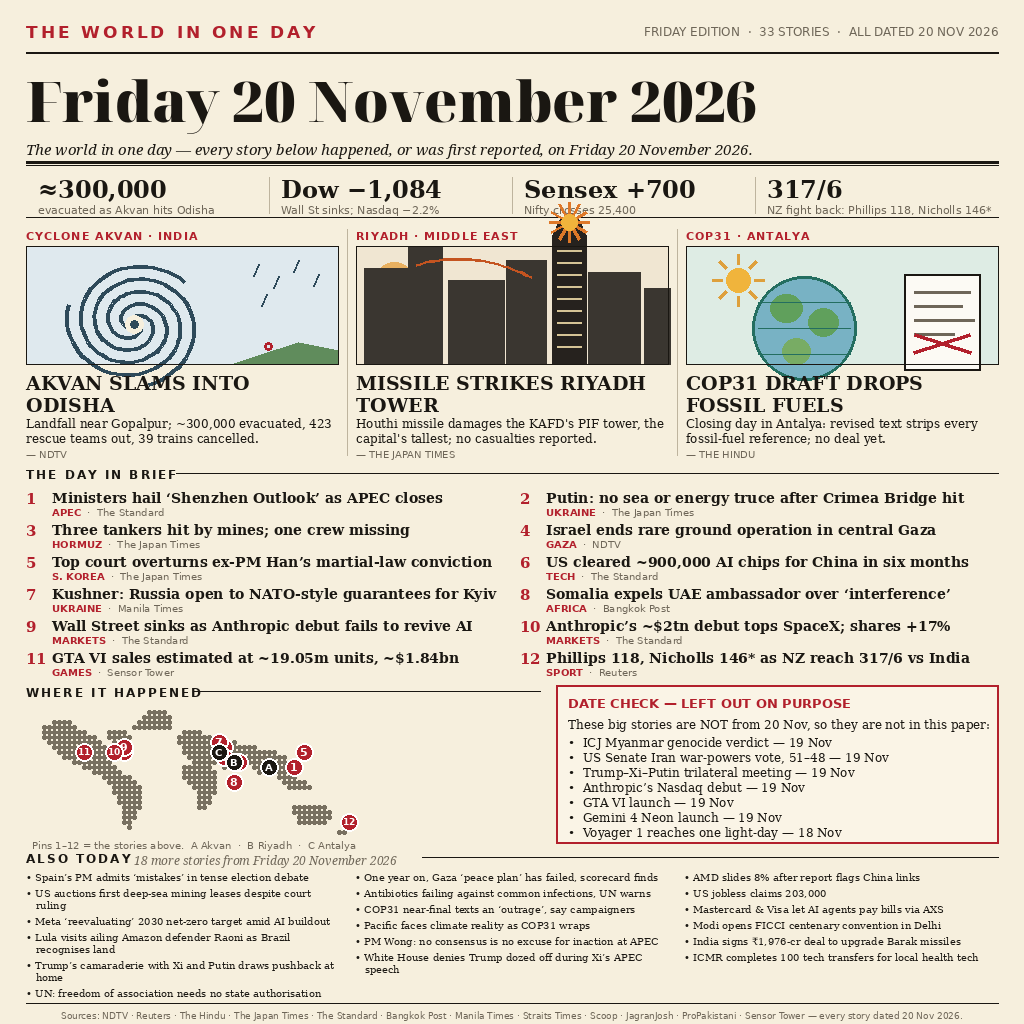
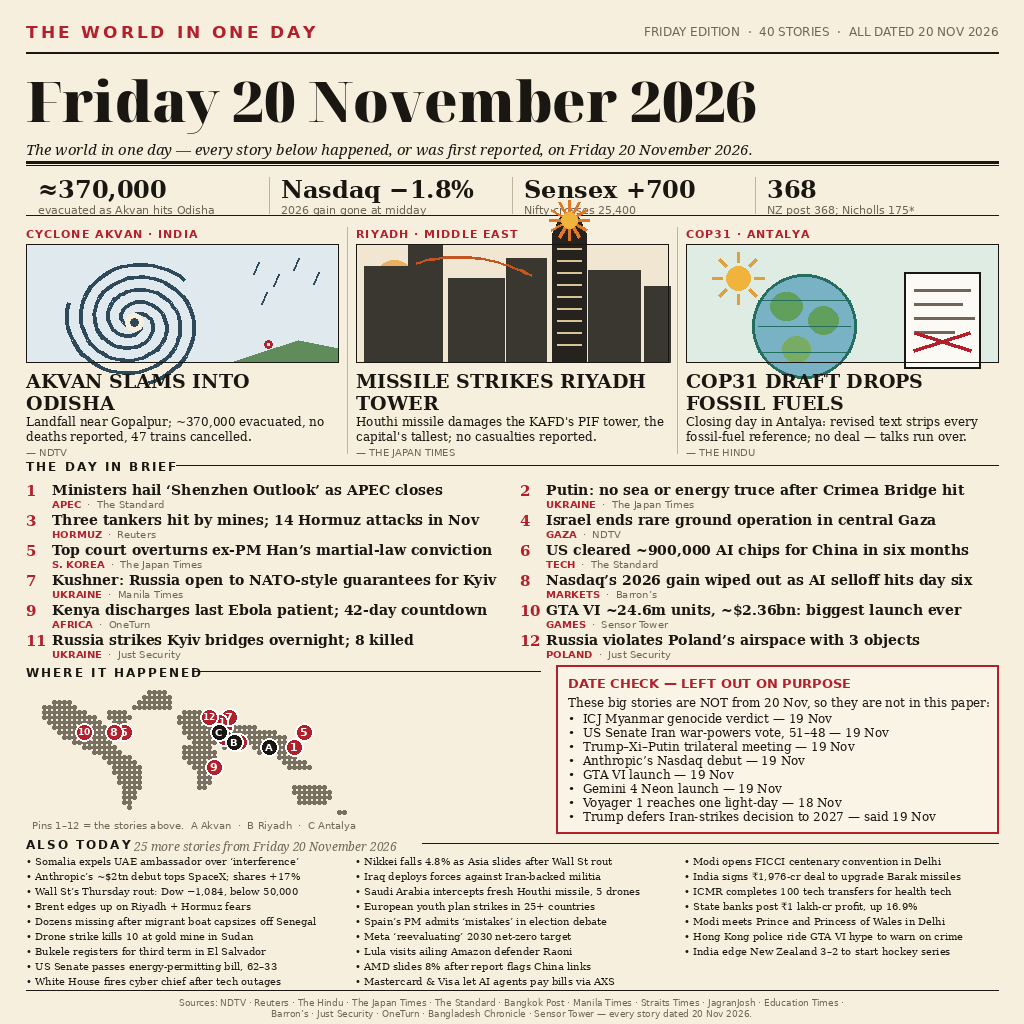
news-image-20261120 FINAL: 40 verified stories — Akvan landfall complete, COP31 no deal, Nasdaq's 2026 gain gone, GTA VI $2.36bn, Kyiv + Poland

Changed region(s): [[0.0312, 0.1562, 0.9688, 1.0]]

diff --git a/main.ts b/main.ts
@@ -1,8 +1,10 @@
 // news-image-20261120 — "Sum up 20 November's world news in one image".
 // The entry is the image beside this file: entry.png, a 1024x1024 newspaper
-// front page drawn by draw.py (Python/Pillow, no network) from the 33 verified
-// 20 Nov 2026 headlines in the research file. This program only copies it to
-// the grader's output directory, so both runs write byte-identical output.
+// front page drawn by draw.py (Python/Pillow, no network) from the 40 verified
+// 20 Nov 2026 headlines in the research file (final version: landfall complete,
+// COP31 no deal, Nasdaq's 2026 gain gone, GTA VI $2.36bn estimate, Kyiv + Poland).
+// This program only copies it to the grader's output directory, so both runs
+// write byte-identical output.
 //
 // Outside the grader's container, MAKEFUN_OUTPUT_DIR stands in for /output:
 //   mkdir -p out && MAKEFUN_OUTPUT_DIR=out node main.ts

diff --git a/draw.py b/draw.py
@@ -108,7 +108,7 @@ LEADS = [
     {
         "tag": "CYCLONE AKVAN · INDIA",
         "headline": "AKVAN SLAMS INTO ODISHA",
-        "standfirst": "Landfall near Gopalpur; ~300,000 evacuated, 423 rescue teams out, 39 trains cancelled.",
+        "standfirst": "Landfall near Gopalpur; ~370,000 evacuated, no deaths reported, 47 trains cancelled.",
         "source": "NDTV",
         "art": "cyclone",
     },
@@ -122,7 +122,7 @@ LEADS = [
     {
         "tag": "COP31 · ANTALYA",
         "headline": "COP31 DRAFT DROPS FOSSIL FUELS",
-        "standfirst": "Closing day in Antalya: revised text strips every fossil-fuel reference; no deal yet.",
+        "standfirst": "Closing day in Antalya: revised text strips every fossil-fuel reference; no deal — talks run over.",
         "source": "THE HINDU",
         "art": "globe",
     },
@@ -131,53 +131,54 @@ LEADS = [
 GRID = [
     ("APEC", "Ministers hail \u2018Shenzhen Outlook\u2019 as APEC closes", "The Standard"),
     ("UKRAINE", "Putin: no sea or energy truce after Crimea Bridge hit", "The Japan Times"),
-    ("HORMUZ", "Three tankers hit by mines; one crew missing", "The Japan Times"),
+    ("HORMUZ", "Three tankers hit by mines; 14 Hormuz attacks in Nov", "Reuters"),
     ("GAZA", "Israel ends rare ground operation in central Gaza", "NDTV"),
     ("S. KOREA", "Top court overturns ex-PM Han\u2019s martial-law conviction", "The Japan Times"),
     ("TECH", "US cleared ~900,000 AI chips for China in six months", "The Standard"),
     ("UKRAINE", "Kushner: Russia open to NATO-style guarantees for Kyiv", "Manila Times"),
-    ("AFRICA", "Somalia expels UAE ambassador over \u2018interference\u2019", "Bangkok Post"),
-    ("MARKETS", "Wall Street sinks as Anthropic debut fails to revive AI", "The Standard"),
-    ("MARKETS", "Anthropic\u2019s ~$2tn debut tops SpaceX; shares +17%", "The Standard"),
-    ("GAMES", "GTA VI sales estimated at ~19.05m units, ~$1.84bn", "Sensor Tower"),
-    ("SPORT", "Phillips 118, Nicholls 146* as NZ reach 317/6 vs India", "Reuters"),
+    ("MARKETS", "Nasdaq\u2019s 2026 gain wiped out as AI selloff hits day six", "Barron\u2019s"),
+    ("AFRICA", "Kenya discharges last Ebola patient; 42-day countdown", "OneTurn"),
+    ("GAMES", "GTA VI ~24.6m units, ~$2.36bn: biggest launch ever", "Sensor Tower"),
+    ("UKRAINE", "Russia strikes Kyiv bridges overnight; 8 killed", "Just Security"),
+    ("POLAND", "Russia violates Poland\u2019s airspace with 3 objects", "Just Security"),
 ]
 
-# Numbered pins on the map: (grid story no., lon, lat). 11/12 sit near their region;
-# 10 (Nasdaq) is nudged off 9 (Wall St) so the two pins do not overlap.
+# Numbered pins on the map: (grid story no., lon, lat). 8 (Nasdaq) is nudged
+# off 6 (Washington) and 9 (Kenya) is nudged to the nearest land dot, so the
+# pins do not overlap on this coarse map.
 PINS = [
     (1, 114, 22), (2, 34, 45), (3, 56, 26), (4, 34, 31), (5, 127, 37),
-    (6, -77, 39), (7, 30, 50), (8, 45, 2), (9, -74, 41), (10, -88, 34),
-    (11, -122, 37), (12, 175, -41),
+    (6, -77, 39), (7, 40, 56), (8, -88, 34), (9, 26, 0), (10, -122, 37),
+    (11, 30, 50), (12, 19, 52),
 ]
 # Lead markers on the map: (letter, lon, lat) — A Akvan, B Riyadh, C Antalya.
 LEAD_PINS = [("A", 85, 20), ("B", 47, 25), ("C", 31, 37)]
 
 BRIEFS = [
-    ("Spain\u2019s PM admits \u2018mistakes\u2019 in tense election debate", "Manila Times"),
-    ("US auctions first deep-sea mining leases despite court ruling", "Bangkok Post"),
-    ("Meta \u2018reevaluating\u2019 2030 net-zero target amid AI buildout", "Bangkok Post"),
-    ("Lula visits ailing Amazon defender Raoni as Brazil recognises land", "Bangkok Post"),
-    ("Trump\u2019s camaraderie with Xi and Putin draws pushback at home", "Japan Times"),
-    ("UN: freedom of association needs no state authorisation", "Scoop"),
-    ("One year on, Gaza \u2018peace plan\u2019 has failed, scorecard finds", "Save the Children"),
-    ("Antibiotics failing against common infections, UN warns", "UN News"),
-    ("COP31 near-final texts an \u2018outrage\u2019, say campaigners", "350.org"),
-    ("Pacific faces climate reality as COP31 wraps", "Science Media Centre"),
-    ("PM Wong: no consensus is no excuse for inaction at APEC", "Straits Times"),
-    ("White House denies Trump dozed off during Xi\u2019s APEC speech", "The Standard"),
+    ("Somalia expels UAE ambassador over \u2018interference\u2019", "Bangkok Post"),
+    ("Anthropic\u2019s ~$2tn debut tops SpaceX; shares +17%", "The Standard"),
+    ("Wall St\u2019s Thursday rout: Dow \u22121,084, below 50,000", "The Standard"),
+    ("Brent edges up on Riyadh + Hormuz fears", "Reuters"),
+    ("Dozens missing after migrant boat capsizes off Senegal", "OneTurn"),
+    ("Drone strike kills 10 at gold mine in Sudan", "OneTurn"),
+    ("Bukele registers for third term in El Salvador", "OneTurn"),
+    ("US Senate passes energy-permitting bill, 62\u201333", "Bangladesh Chronicle"),
+    ("White House fires cyber chief after tech outages", "OneTurn"),
+    ("Nikkei falls 4.8% as Asia slides after Wall St rout", "OneTurn"),
+    ("Iraq deploys forces against Iran-backed militia", "Just Security"),
+    ("Saudi Arabia intercepts fresh Houthi missile, 5 drones", "Bangladesh Chronicle"),
+    ("European youth plan strikes in 25+ countries", "OneTurn"),
+    ("Spain\u2019s PM admits \u2018mistakes\u2019 in election debate", "Manila Times"),
+    ("Meta \u2018reevaluating\u2019 2030 net-zero target", "Bangkok Post"),
+    ("Lula visits ailing Amazon defender Raoni", "Bangkok Post"),
     ("AMD slides 8% after report flags China links", "The Standard"),
-    ("US jobless claims 203,000", "Center Times"),
     ("Mastercard & Visa let AI agents pay bills via AXS", "Straits Times"),
     ("Modi opens FICCI centenary convention in Delhi", "JagranJosh"),
     ("India signs \u20b91,976-cr deal to upgrade Barak missiles", "JagranJosh"),
-    ("ICMR completes 100 tech transfers for local health tech", "JagranJosh"),
+    ("ICMR completes 100 tech transfers for health tech", "JagranJosh"),
     ("State banks post \u20b91 lakh-cr profit, up 16.9%", "Education Times"),
     ("Modi meets Prince and Princess of Wales in Delhi", "Education Times"),
-    ("Hong Kong police ride GTA VI hype to warn on real crime", "The Standard"),
-    ("Florida storms force human and horse rescues", "Manila Times"),
-    ("Florida set for record 20th execution; Texas also executes", "Manila Times"),
-    ("$1.88m of cameras stolen from Hong Kong store", "The Standard"),
+    ("Hong Kong police ride GTA VI hype to warn on crime", "The Standard"),
     ("India edge New Zealand 3\u20132 to start hockey series", "NDTV"),
 ]
 
@@ -189,6 +190,7 @@ DATE_CHECK = [
     "GTA VI launch \u2014 19 Nov",
     "Gemini 4 Neon launch \u2014 19 Nov",
     "Voyager 1 reaches one light-day \u2014 18 Nov",
+    "Trump defers Iran-strikes decision to 2027 \u2014 said 19 Nov",
 ]
 
 # ---------------------------------------------------------------- art panels
@@ -326,7 +328,7 @@ def render():
     f_name = font(F_SANS_BOLD, 17)
     letterspace(d, (MX, y), "THE WORLD IN ONE DAY", f_name, RED, 3)
     f_ed = font(F_SANS, 12)
-    ed = "FRIDAY EDITION  ·  33 STORIES  ·  ALL DATED 20 NOV 2026"
+    ed = "FRIDAY EDITION  ·  40 STORIES  ·  ALL DATED 20 NOV 2026"
     d.text((W - MX, y + 2), ed, font=f_ed, fill=GREY, anchor="ra")
     y += 30
     d.line([(MX, y), (W - MX, y)], fill=INK, width=2)
@@ -349,10 +351,10 @@ def render():
 
     # ---- stats strip
     stats = [
-        ("\u2248300,000", "evacuated as Akvan hits Odisha"),
-        ("Dow \u22121,084", "Wall St sinks; Nasdaq \u22122.2%"),
+        ("\u2248370,000", "evacuated as Akvan hits Odisha"),
+        ("Nasdaq \u22121.8%", "2026 gain gone at midday"),
         ("Sensex +700", "Nifty crosses 25,400"),
-        ("317/6", "NZ fight back: Phillips 118, Nicholls 146*"),
+        ("368", "NZ post 368; Nicholls 175*"),
     ]
     f_stat_n = font(F_SERIF_BOLD, 24)
     f_stat_l = font(F_SANS, 11)
@@ -363,8 +365,11 @@ def render():
         if i:
             d.line([(cx, y + 2), (cx, y + 38)], fill=(190, 180, 158), width=1)
         d.text((cx + 12, y), num, font=f_stat_n, fill=INK)
-        d.text((cx + 12, y + 28), lab, font=f_stat_l, fill=GREY)
-    y = stat_top + 42
+        # label capped to one line inside its own cell — never bleed into the
+        # next cell (a long label once ran across the whole strip)
+        lab_lines = fit_lines(d, lab, f_stat_l, cell_w - 24, 1)
+        d.text((cx + 12, y + 28), lab_lines[0], font=f_stat_l, fill=GREY)
+    y = stat_top + 40
     d.line([(MX, y), (W - MX, y)], fill=INK, width=1)
     y += 12
 
@@ -392,7 +397,7 @@ def render():
         if i:
             d.line([(x - 9, lead_top), (x - 9, lead_top + 226)],
                    fill=(190, 180, 158), width=1)
-    y = lead_top + 238
+    y = lead_top + 232
 
     # ---- section header
     f_sec = font(F_SANS_BOLD, 12)
@@ -407,7 +412,7 @@ def render():
     f_ghead = font(F_SERIF_BOLD, 14)
     f_gsrc = font(F_SANS, 10)
     grid_w = (CW - 16) // 2
-    row_h = 32
+    row_h = 30
     for idx, (tag, head, src) in enumerate(GRID):
         col = idx % 2
         row = idx // 2
@@ -444,31 +449,31 @@ def render():
            "Pins 1\u201312 = the stories above.  A Akvan  ·  B Riyadh  ·  C Antalya",
            font=font(F_SANS, 10), fill=GREY)
     # date check box
-    d.rectangle([dc_x, row_top, dc_x + dc_w, row_top + 158], fill=(250, 244, 230),
+    d.rectangle([dc_x, row_top, dc_x + dc_w, row_top + 168], fill=(250, 244, 230),
                 outline=RED, width=2)
     f_dc_h = font(F_SANS_BOLD, 13)
     d.text((dc_x + 12, row_top + 10), "DATE CHECK \u2014 LEFT OUT ON PURPOSE",
            font=f_dc_h, fill=RED)
     f_dc = font(F_SERIF, 12)
-    d.text((dc_x + 12, row_top + 32),
+    d.text((dc_x + 12, row_top + 30),
            "These big stories are NOT from 20 Nov, so they are not in this paper:",
            font=f_dc, fill=INK)
-    dy = row_top + 50
+    dy = row_top + 46
     for item in DATE_CHECK:
         d.text((dc_x + 12, dy), "\u2022  " + item, font=f_dc, fill=INK)
-        dy += 15
-    y = row_top + 166
+        dy += 14
+    y = row_top + 172
 
-    # ---- ALSO TODAY: 18 briefs, 3 columns (sources in the footer line)
+    # ---- ALSO TODAY: 25 briefs, 3 columns (sources in the footer line)
     letterspace(d, (MX, y), "ALSO TODAY", f_sec, INK, 2)
-    d.text((MX + 108, y + 1), "18 more stories from Friday 20 November 2026",
+    d.text((MX + 108, y + 1), "25 more stories from Friday 20 November 2026",
            font=font(F_SERIF_IT, 12), fill=GREY)
     d.line([(MX + 396, y + 6), (W - MX, y + 6)], fill=INK, width=1)
-    y += 20
-    briefs = BRIEFS[:18]
+    y += 18
+    briefs = BRIEFS[:25]
     f_brief = font(F_SERIF, 10)
     bcol_w = (CW - 2 * 16) // 3
-    per_col = 6
+    per_col = 9
     max_by = y
     for ci in range(3):
         bx = MX + ci * (bcol_w + 16)
@@ -484,18 +489,22 @@ def render():
                 d.text((bx, ly), "\u2022 " + ln if j == 0 else "   " + ln,
                        font=f_brief, fill=INK)
                 ly += 12
-            by = ly + 4
+            by = ly + 3
         max_by = max(max_by, by)
     y = max_by
 
-    # ---- footer: sources
+    # ---- footer: sources, two lines so the list never runs off the page
     f_foot = font(F_SANS, 9)
     d.line([(MX, y), (W - MX, y)], fill=INK, width=1)
     y += 7
     d.text((W // 2, y),
            "Sources: NDTV \u00b7 Reuters \u00b7 The Hindu \u00b7 The Japan Times \u00b7 The Standard \u00b7 "
-           "Bangkok Post \u00b7 Manila Times \u00b7 Straits Times \u00b7 Scoop \u00b7 JagranJosh \u00b7 "
-           "ProPakistani \u00b7 Sensor Tower \u2014 every story dated 20 Nov 2026.",
+           "Bangkok Post \u00b7 Manila Times \u00b7 Straits Times \u00b7 JagranJosh \u00b7 Education Times \u00b7",
+           font=f_foot, fill=GREY, anchor="ma")
+    y += 11
+    d.text((W // 2, y),
+           "Barron\u2019s \u00b7 Just Security \u00b7 OneTurn \u00b7 Bangladesh Chronicle \u00b7 Sensor Tower "
+           "\u2014 every story dated 20 Nov 2026.",
            font=f_foot, fill=GREY, anchor="ma")
     return img, y
 
